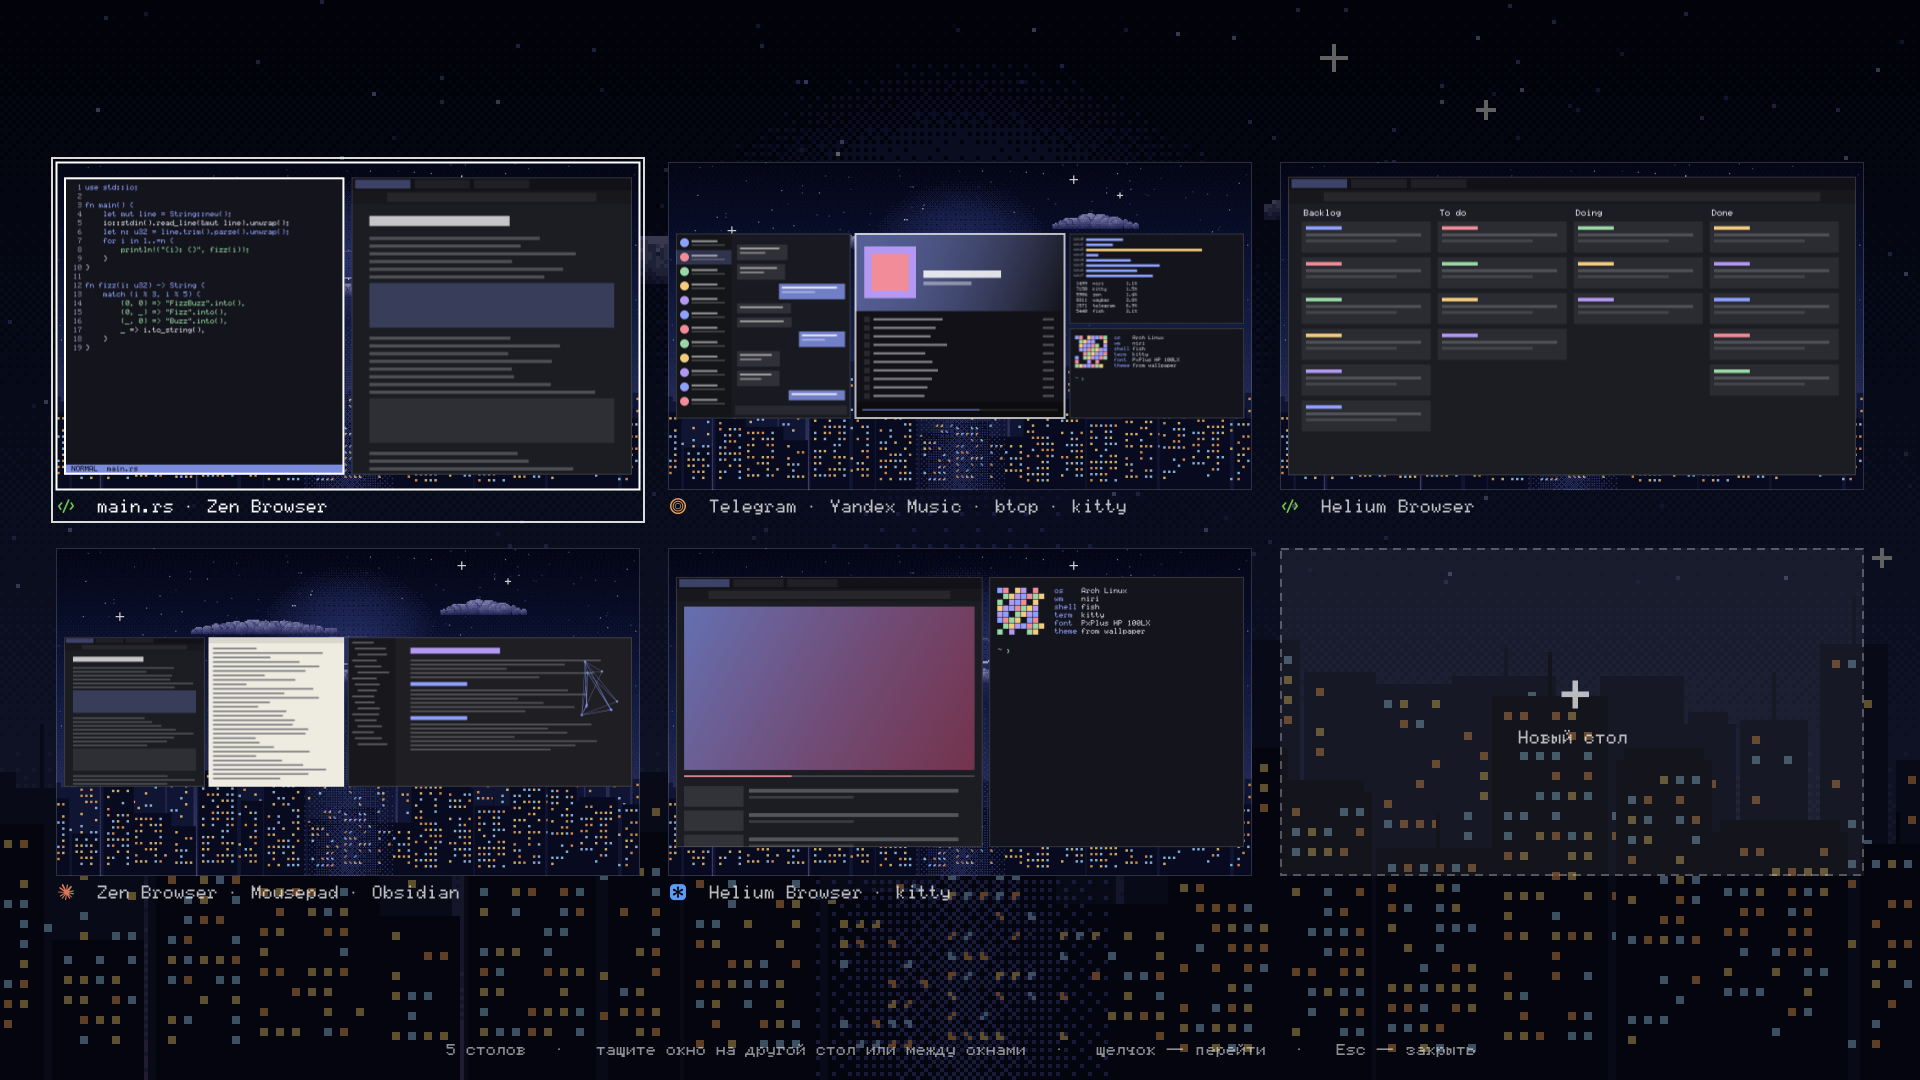
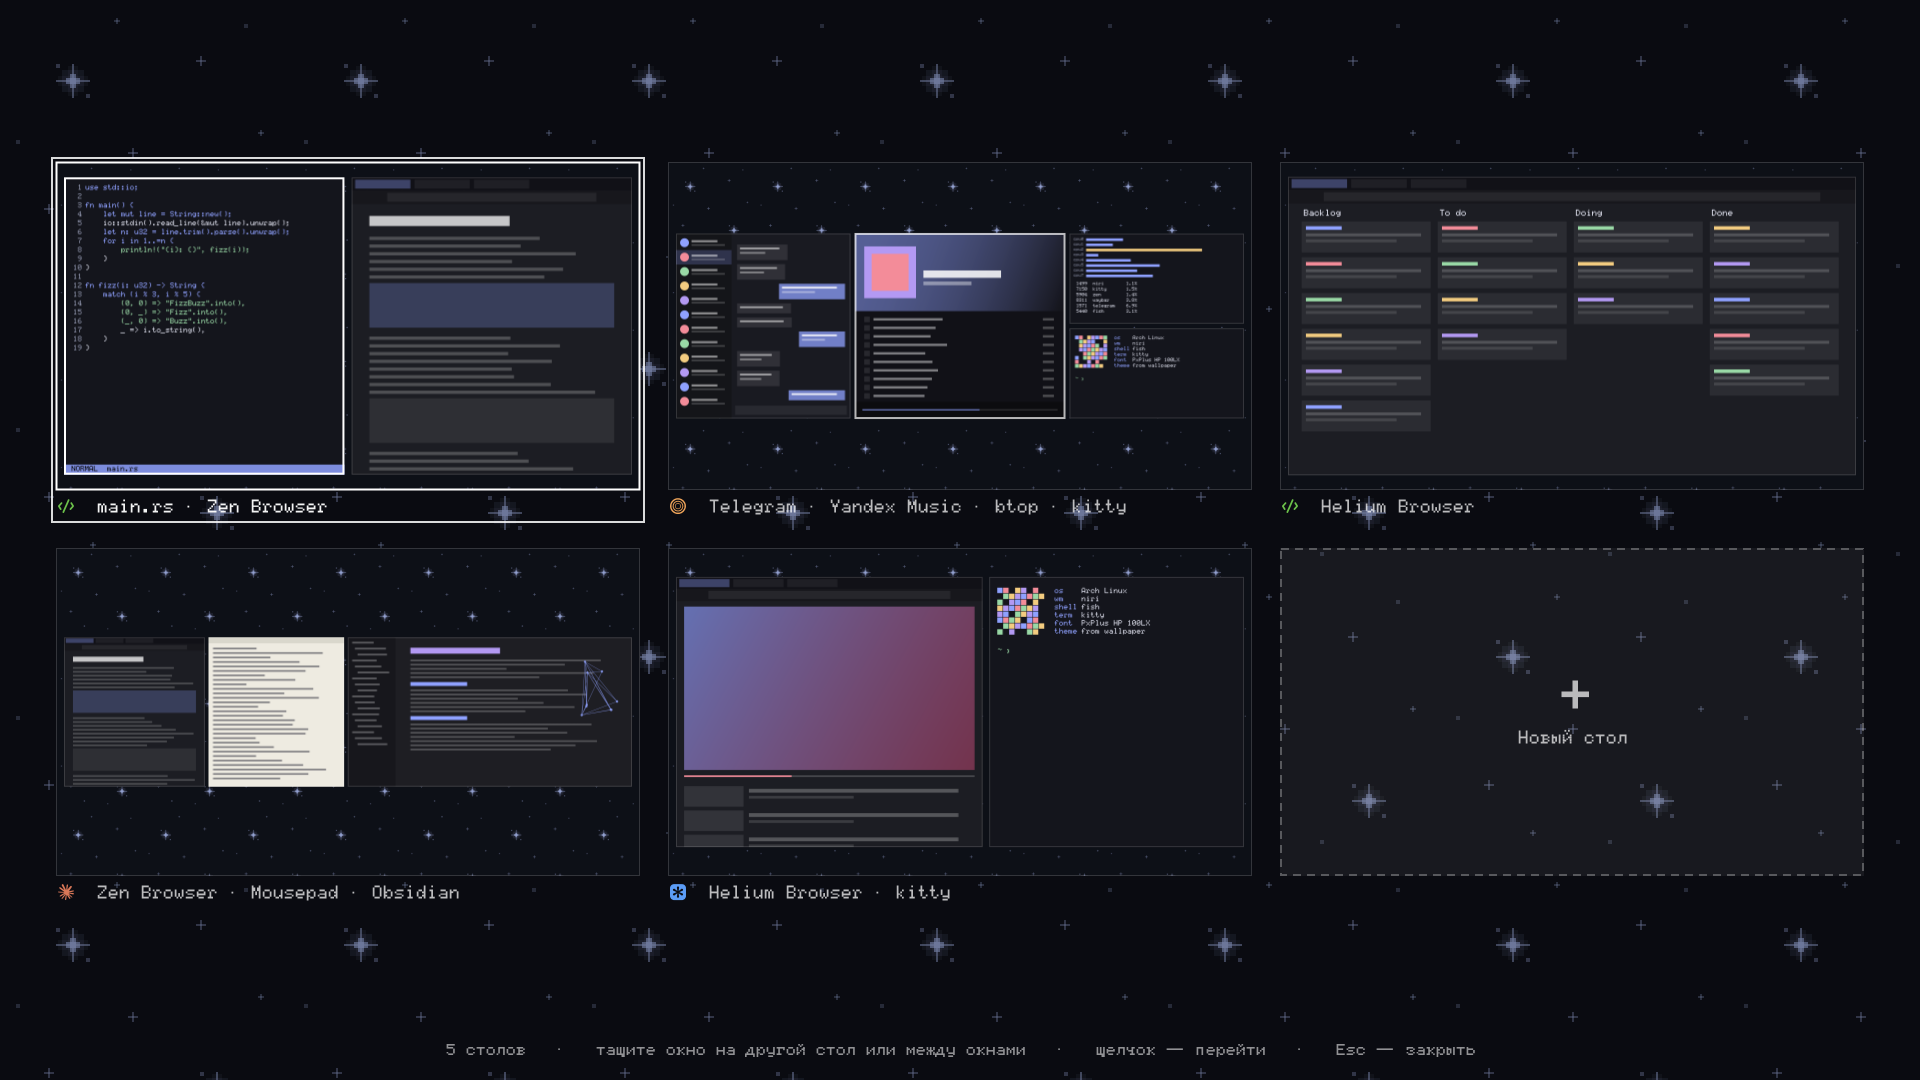
Alt+Tab: third view — windows of the current desk; lighter overview dim; README screenshot

diff --git a/.config/hypr/scripts/settings_app.py b/.config/hypr/scripts/settings_app.py
@@ -6952,11 +6952,13 @@ class SettingsWindow(Gtk.ApplicationWindow):
                  "Рядом — мониторы слева направо, столы каждого столбиком. Друг под другом — "
                  "MSI сверху, Laptop снизу, столы каждого строкой слева направо.",
                  icon="\U000f0379")
-        cur, put = state_rw("alttab-mode", ("windows", "desks"), "windows")
+        cur, put = state_rw("alttab-mode", ("windows", "desks", "deskwin"), "windows")
         self.only_in("scroll", self.row(
-                 c, "Показывать", self.segments([("windows", "Окна"), ("desks", "Столы")], cur, put),
-                 "С чего открывается Alt+Tab. Внутри переключает клавиша ~ (на русской — ё), "
-                 "выбор запоминается. В Stack mode Alt+Tab — только окна.", icon="\U000f05ad"))
+                 c, "Показывать", self.segments([("windows", "Окна"), ("desks", "Столы"),
+                                                 ("deskwin", "Окна стола")], cur, put),
+                 "С чего открывается Alt+Tab. Внутри переключает клавиша ~ (на русской — ё) по кругу: "
+                 "окна → столы → окна стола; выбор запоминается. Окна стола — окна стола в фокусе "
+                 "с картинками. В Stack mode Alt+Tab — только окна.", icon="\U000f05ad"))
         # 03.11.2026, просьба: «переключатель рядом с Alt+Tab: Super+G на старый обзор или на
         # новый; имена Niri overview и staticOS overview». Бинд не переписывается — его
         # скрипт ~/.config/niri/scripts/overview читает state/overview-mode при каждом нажатии.

diff --git a/docs/ru/keybindings.md b/docs/ru/keybindings.md
@@ -208,7 +208,7 @@
 | Клавиши | Действие |
 |---|---|
 | `Mod + Tab` | фокус на следующий монитор |
-| `Alt + Tab` | переключатель окон (следующее) |
+| `Alt + Tab` | переключатель окон (следующее); внутри `` ` `` по кругу: окна → столы → окна текущего стола (с картинками) |
 | `Ctrl + Alt + H` | окно на монитор левее |
 | `Ctrl + Alt + L` | окно на монитор правее |
 | `Ctrl + Alt + Left` | окно на монитор левее |

diff --git a/docs/keybindings.md b/docs/keybindings.md
@@ -208,7 +208,7 @@ Inside the staticOS overview: `h/j/k/l` or arrows move between tiles (and to the
 | Keys | Action |
 |---|---|
 | `Mod + Tab` | focus the next monitor |
-| `Alt + Tab` | window switcher (next) |
+| `Alt + Tab` | window switcher (next); inside, `` ` `` cycles windows → desks → windows of the current desk (with pictures) |
 | `Ctrl + Alt + H` | window to the monitor on the left |
 | `Ctrl + Alt + L` | window to the monitor on the right |
 | `Ctrl + Alt + Left` | window to the monitor on the left |
